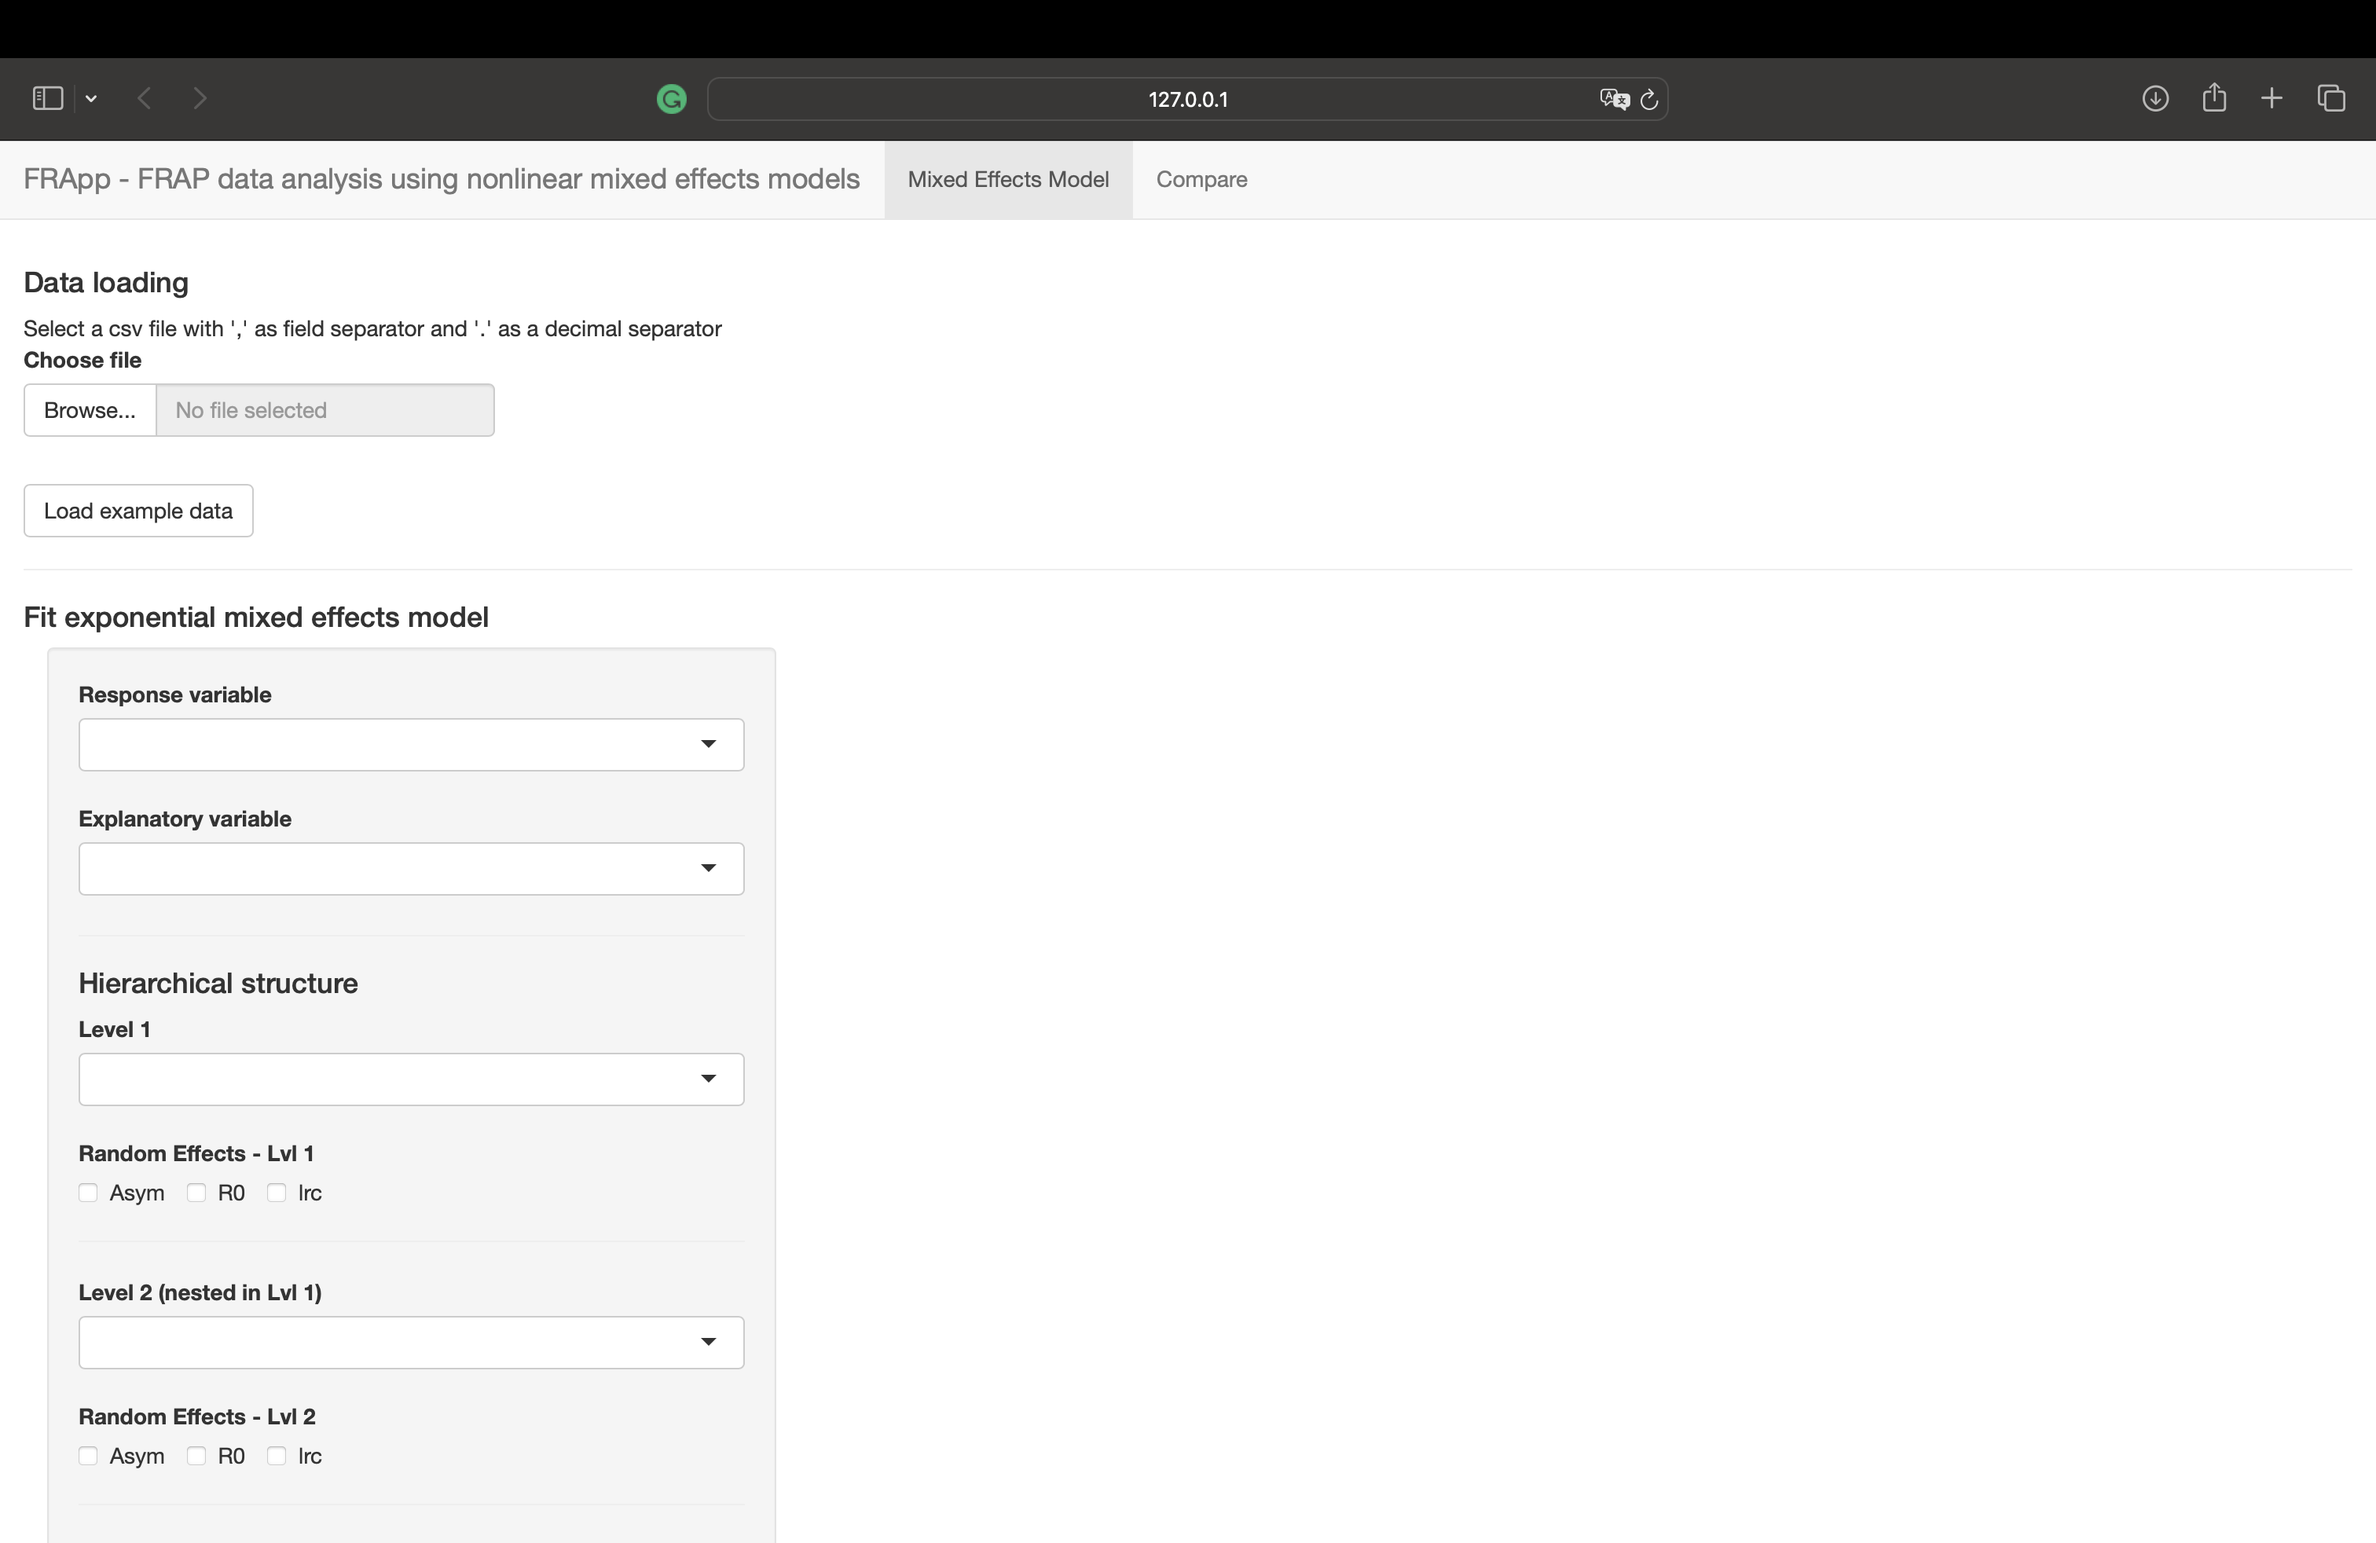
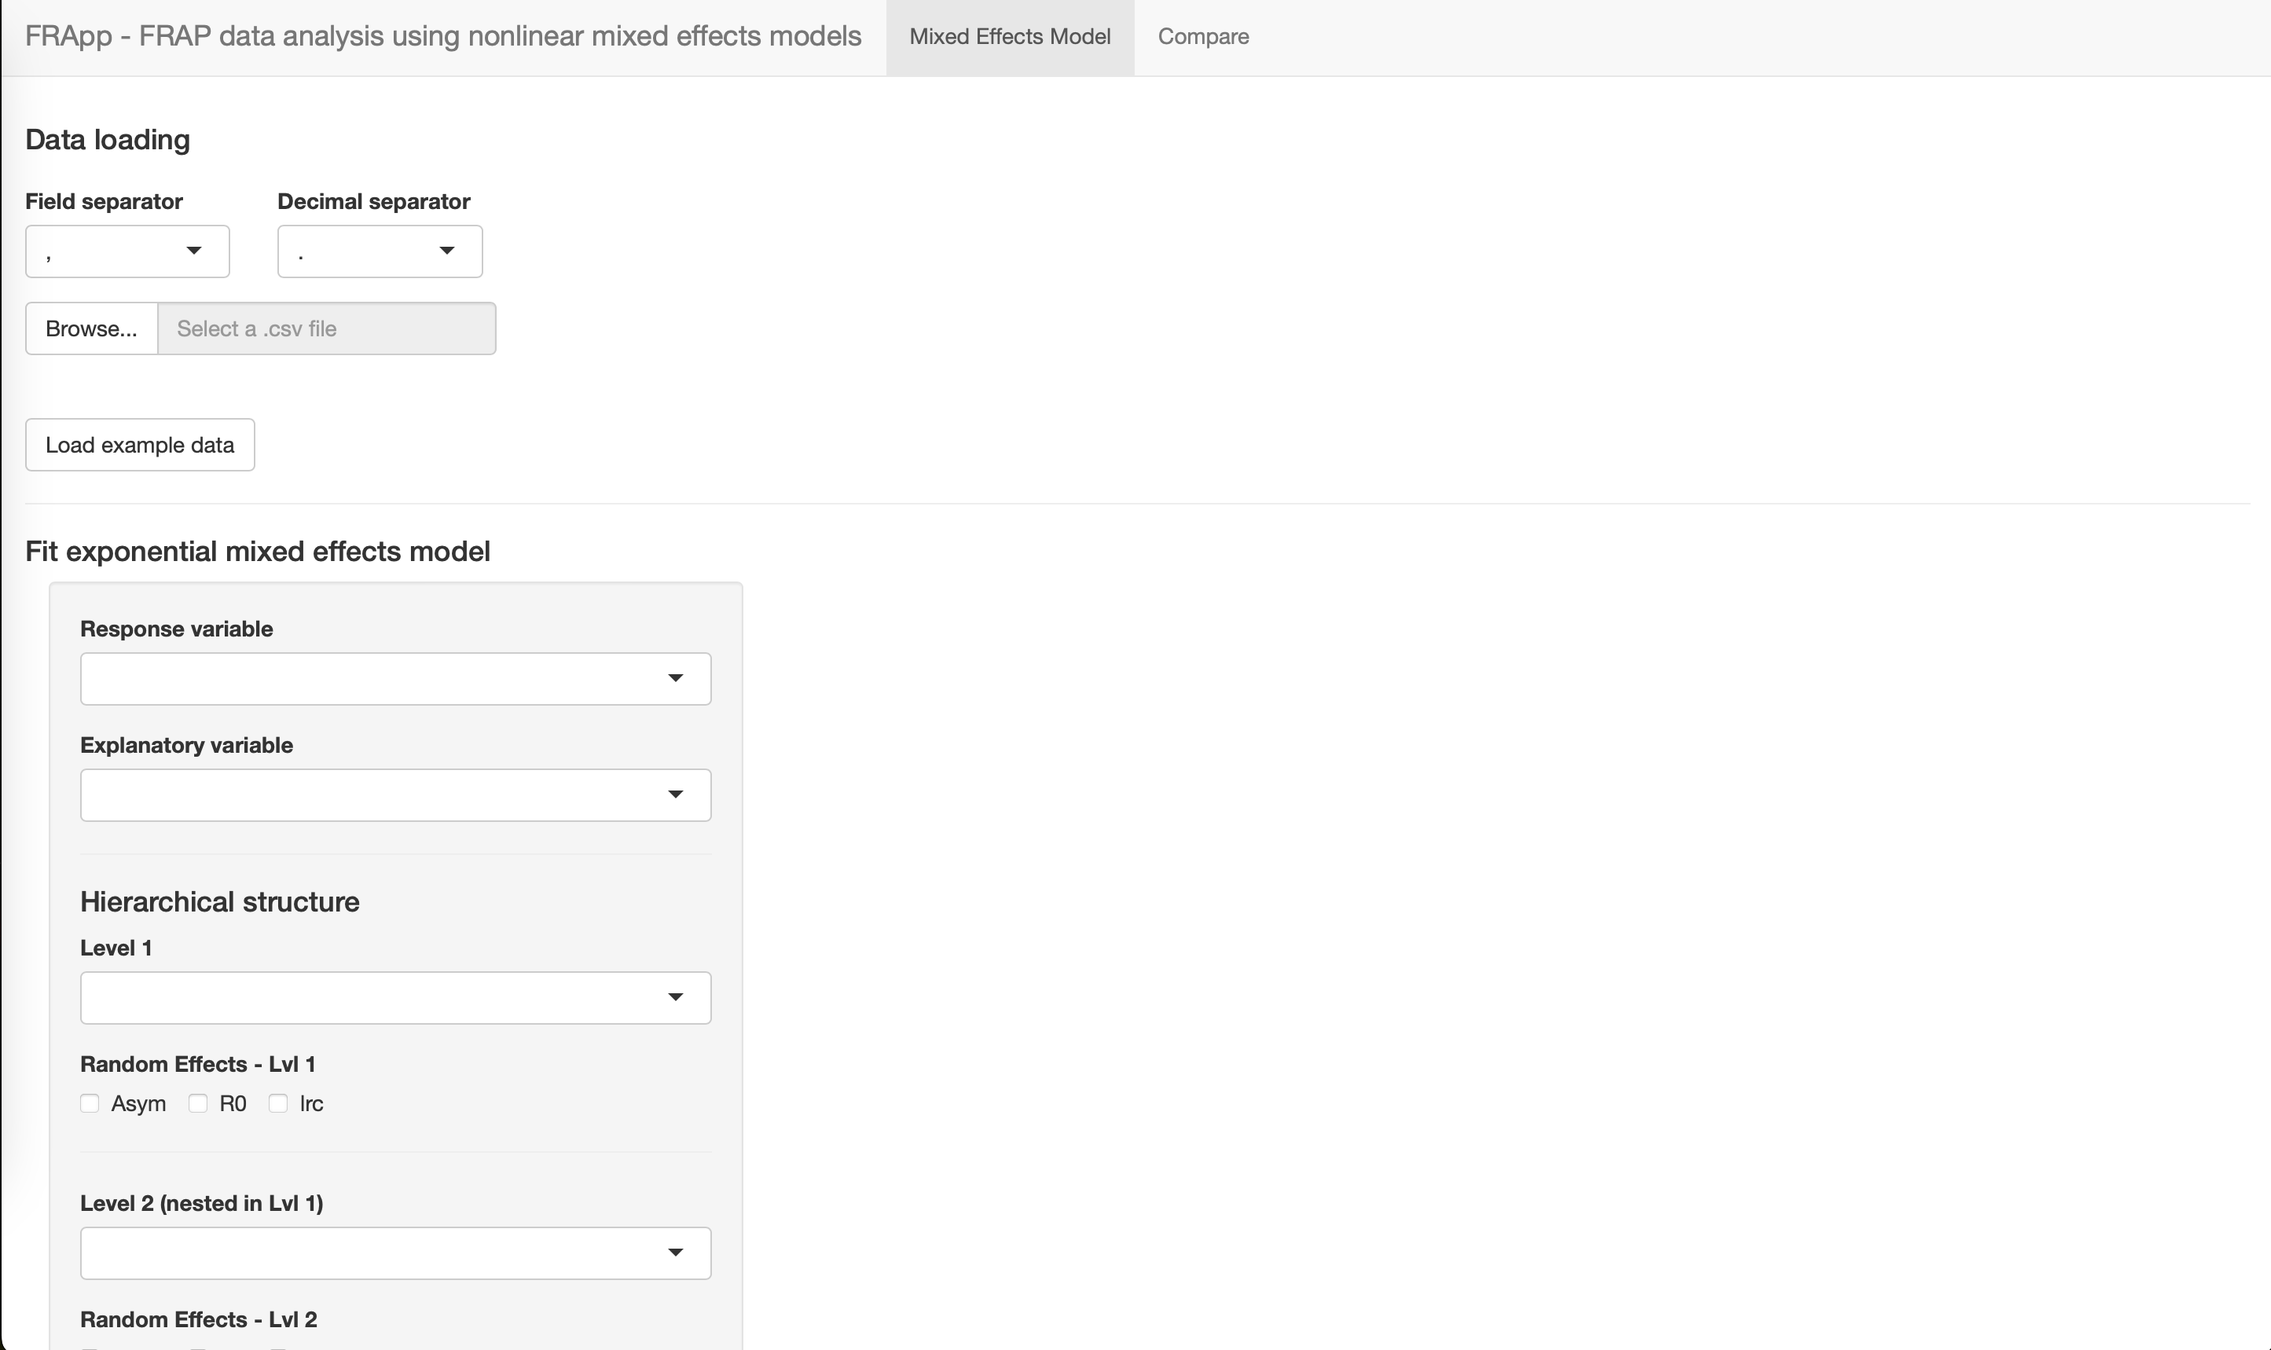
README updates

diff --git a/README.md b/README.md
@@ -33,21 +33,12 @@ install.package("FRApp")
 You can install the development version of FRApp from
 [GitHub](https://github.com/) with:
 
-``` r
-# install.packages("devtools")
-devtools::install_github("gioiadc/FRApp")
-```
-
 ## Data preparation
 
-Save the data in a csv file with a comma as a separator and a period as
-a decimal separator. The first line of the file must contain the name of
-the variables.
-
-If the data is in an Excel file, you can export it by selecting the
-format:
-
-CSV UTF-8 (Comma-delimited) (.csv)
+The application accepts csv files and, by default, it uses the comma as
+field separator and the period as decimal separator. However, when you
+load the dataset, you can select other symbols. The first line of the
+file must contain the name of the variables.
 
 When you open the csv file with a text editor it should look like this:
 
